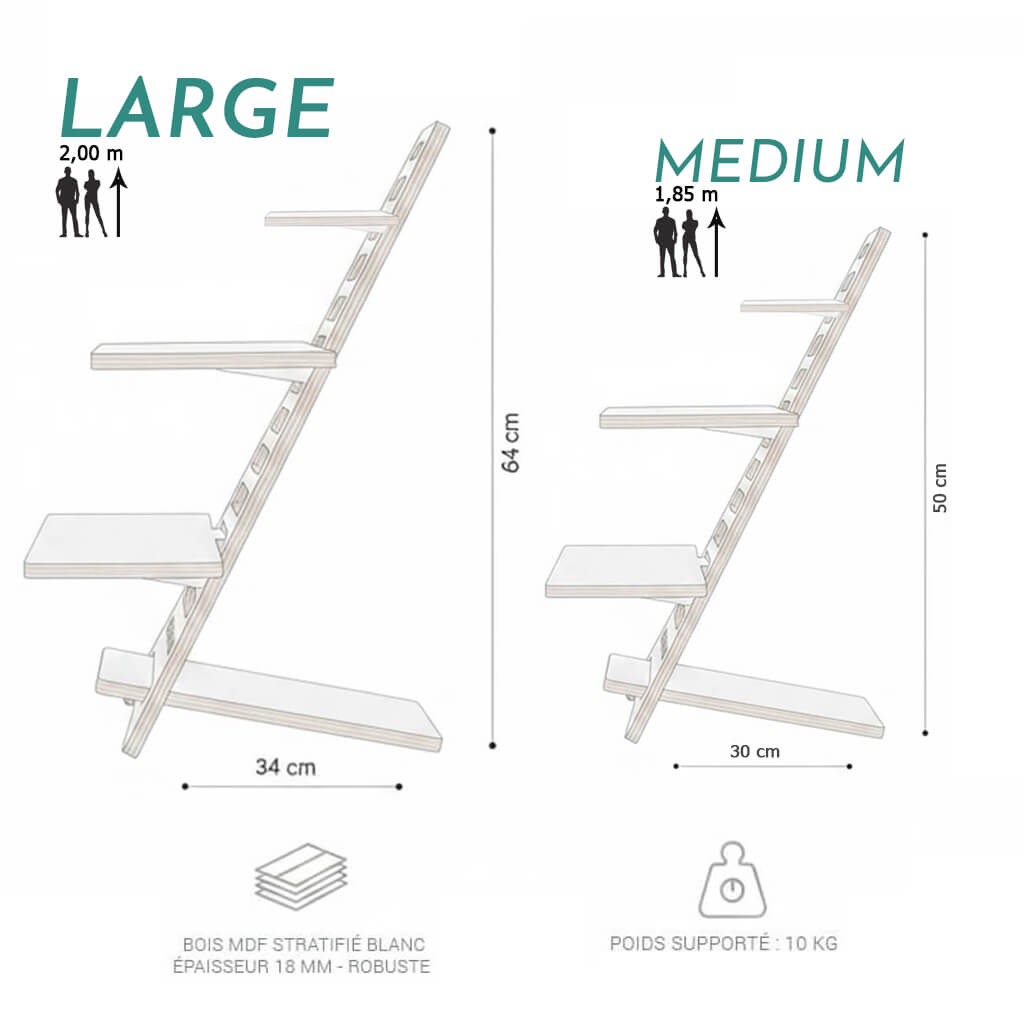
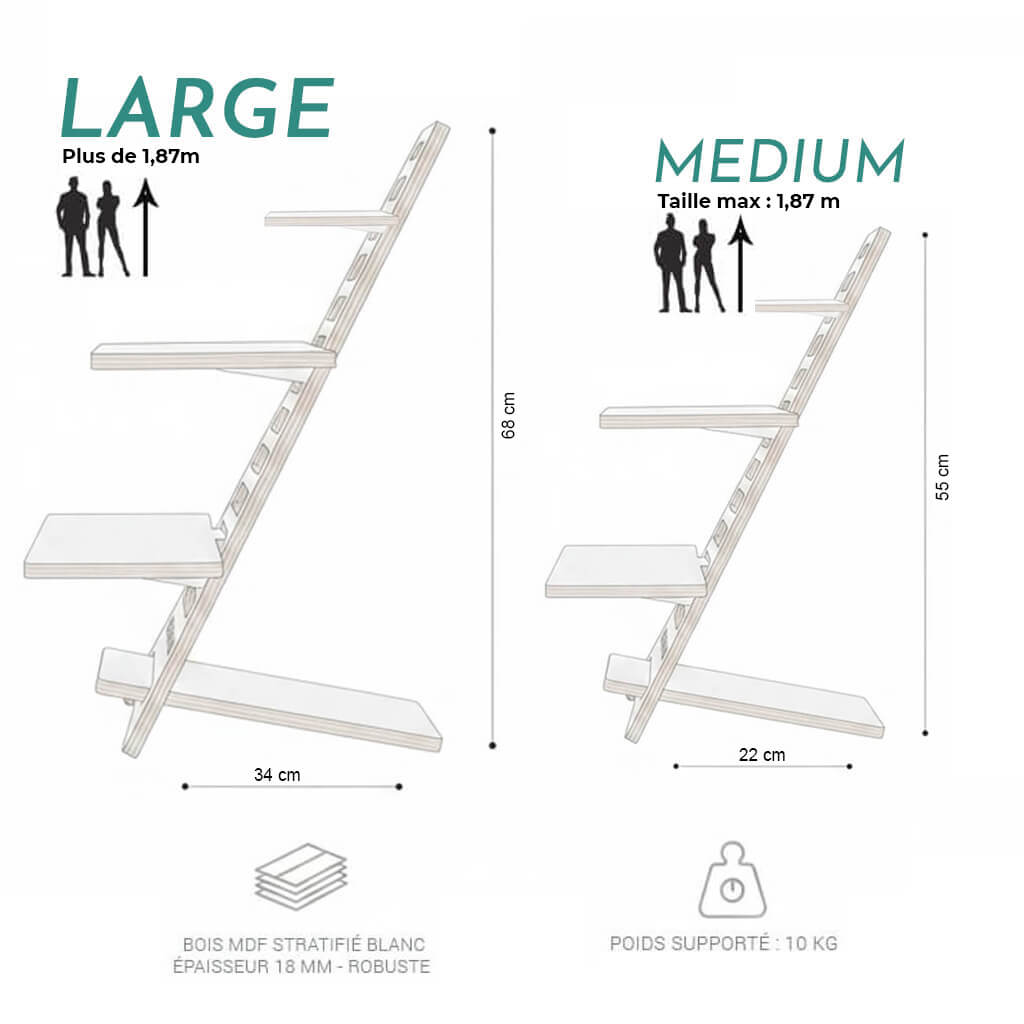
update photos et carrousel config

diff --git a/wp-content/themes/oceanwp/assets/css/custom.css b/wp-content/themes/oceanwp/assets/css/custom.css
@@ -659,11 +659,28 @@ body:not(.home) #main #content-wrap {
     height: 100%;
     object-fit: cover;
     opacity: 0;
+    z-index: 0;
     transition: opacity 0.6s ease;
 }
 
 .product-stacked-layout .pgb-slide--active {
     opacity: 1;
+    z-index: 1;
+}
+
+/* Slides pgb & pgb-hero cliquables (lightbox img-popup) :
+   on conserve la classe .img-popup pour ouvrir la popup au clic,
+   mais on neutralise sa bordure/zoom qui déformeraient ces images plein cadre */
+.product-stacked-layout .pgb-slide.img-popup,
+.product-stacked-layout .pgb-hero__slide.img-popup {
+    border: none;
+    border-radius: 0;
+    cursor: zoom-in;
+}
+
+.product-stacked-layout .pgb-slide.img-popup:hover,
+.product-stacked-layout .pgb-hero__slide.img-popup:hover {
+    transform: none;
 }
 
 .product-stacked-layout .pgb-gallery__thumbs {

diff --git a/wp-content/themes/oceanwp/woocommerce/content-single-product-stacked.php b/wp-content/themes/oceanwp/woocommerce/content-single-product-stacked.php
@@ -118,9 +118,9 @@ if (post_password_required()) {
 				<div class="pgb-hero__wrap">
 					<span class="pgb-hero__badge">Améliorez votre posture</span>
 					<div class="pgb-hero__track" id="pgb-hero-track">
-						<img src="<?php echo $img_base; ?>homedesk-bureau-assis-debout-pc-hero-5.jpg" alt="HomeDesk vue 1" class="pgb-hero__slide">
-						<img src="<?php echo $img_base; ?>homedesk-bureau-assis-debout-pc-hero-6.jpg" alt="HomeDesk vue 2" class="pgb-hero__slide">
-						<img src="<?php echo $img_base; ?>homedesk-bureau-assis-debout-pc-hero-7.jpg" alt="HomeDesk vue 3" class="pgb-hero__slide">
+						<img src="<?php echo $img_base; ?>homedesk-bureau-assis-debout-pc-hero-5.jpg" alt="HomeDesk vue 1" class="pgb-hero__slide img-popup">
+						<img src="<?php echo $img_base; ?>homedesk-bureau-assis-debout-pc-hero-6.jpg" alt="HomeDesk vue 2" class="pgb-hero__slide img-popup">
+						<img src="<?php echo $img_base; ?>homedesk-bureau-assis-debout-pc-hero-7.jpg" alt="HomeDesk vue 3" class="pgb-hero__slide img-popup">
 					</div>
 				</div>
 				<div class="pgb-hero__thumbs">
@@ -169,9 +169,9 @@ if (post_password_required()) {
 			<!-- Col 3 : Mini-galerie slider -->
 			<div class="pgb-gallery">
 				<div class="pgb-gallery__track" id="pgb-track">
-					<img src="<?php echo $img_base; ?>homedesk-sac-1.jpg" alt="Sac vue 1" class="pgb-slide ">
-					<img src="<?php echo $img_base; ?>homedesk-sac-2.jpg" alt="Sac vue 2" class="pgb-slide">
-					<img src="<?php echo $img_base; ?>homedesk-sac-3.jpg" alt="Sac vue 3" class="pgb-slide">
+					<img src="<?php echo $img_base; ?>homedesk-sac-1.jpg" alt="Sac vue 1" class="pgb-slide img-popup">
+					<img src="<?php echo $img_base; ?>homedesk-sac-2.jpg" alt="Sac vue 2" class="pgb-slide img-popup">
+					<img src="<?php echo $img_base; ?>homedesk-sac-3.jpg" alt="Sac vue 3" class="pgb-slide img-popup">
 				</div>
 				<div class="pgb-gallery__thumbs">
 					<img src="<?php echo $img_base; ?>homedesk-sac-1.jpg" alt="" class="pgb-thumb " data-pgb="0">
